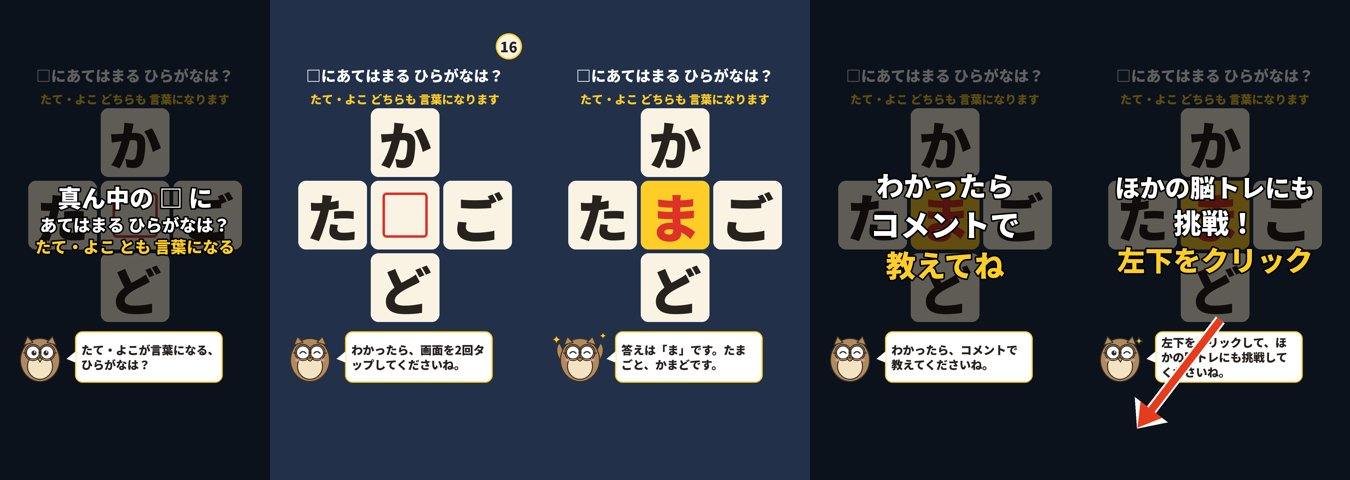
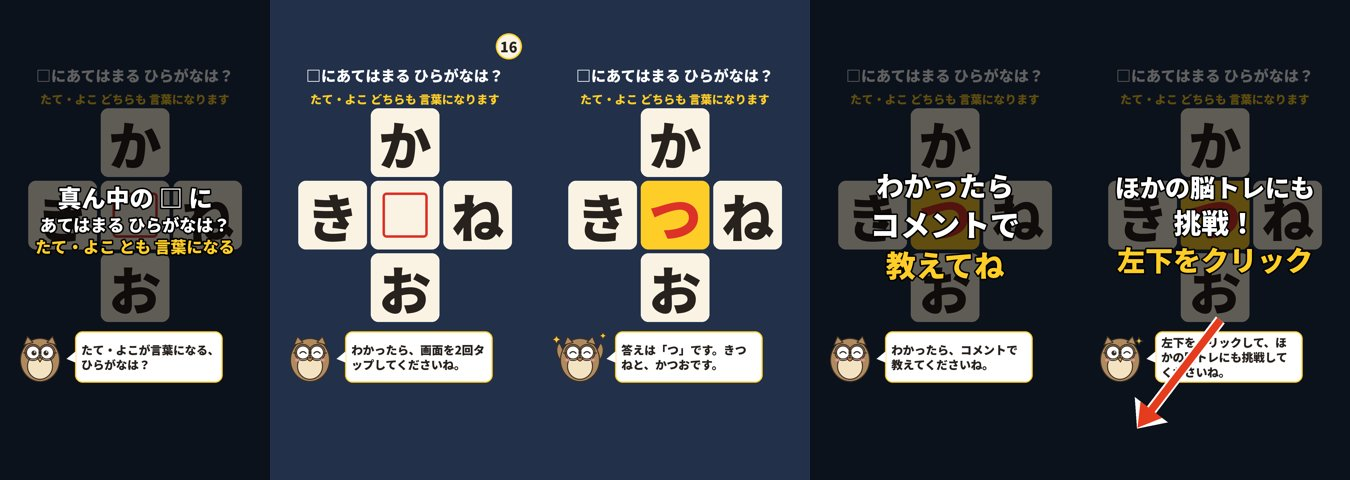
text_008 作り直し（再審査待ち）・作業途中
Claude-Session: https://claude.ai/code/session_01RF3BnfrPSRk1U21VXW6Yry

diff --git a/scripts/chigau_shorts.py b/scripts/chigau_shorts.py
@@ -180,14 +180,15 @@ _ODD = []
 def _is_red(a):
     """手袋の赤（影・光の部分も含む）。灰色・桃色・白は赤でない。"""
     r, g, b = a[..., 0].astype(int), a[..., 1].astype(int), a[..., 2].astype(int)
-    return (r > 150) & (r - g > 90) & (r - b > 90)
+    return (r > 185) & (g < 72) & (b < 68) & (r - g > 120)   # 手袋の赤は約 (230, 59, 53)。ほんの少し明るいにじみも「赤でない」にする
 
 
 @functools.lru_cache(maxsize=None)
 def mitten_pics():
     """冬の絵：赤い毛糸の手袋（画像API 1枚）。違う1つは、雪の結晶の模様を消したもの（プログラム）。"""
     import numpy as np
-    from scipy.ndimage import binary_dilation, distance_transform_edt
+    import numpy as np
+    from scipy.ndimage import binary_dilation, gaussian_filter
     src = WORK / "mitten_src.png"
     if not src.exists():
         import gemini_image as G
@@ -198,9 +199,13 @@ def mitten_pics():
     x0, y0, x1, y1 = SNOW_BOX
     sub = o[y0:y1, x0:x1]
     off = ~_is_red(sub)                                    # 赤から外れる画素（白・灰色・桃色の線・ふちのにじみ）すべて
-    off = binary_dilation(off, iterations=3)               # 3px広げて、にじみの残りも含める
-    idx = distance_transform_edt(off, return_distances=False, return_indices=True)   # いちばん近い赤で塗る
-    sub[:] = sub[idx[0], idx[1]]
+    off = binary_dilation(off, iterations=4)               # 4px広げて、にじみの残りも含める
+    ok = (~off).astype(float)                              # 周りの赤をなめらかに平均して塗る（いちばん近い色だと、まだらの跡が残る）
+    for _ in range(2):
+        num = np.stack([gaussian_filter(sub[..., c] * ok, 25) for c in range(3)], axis=-1)
+        den = gaussian_filter(ok, 25)[..., None] + 1e-6
+        sub[off] = (num / den)[off].astype(np.uint8)
+        ok = np.ones_like(ok)
     bb = Image.fromarray(255 - a.min(axis=2)).point(lambda v: 255 if v > 40 else 0).getbbox()
     _ODD.append(Image.fromarray(o))
     out = []

diff --git a/outputs/2026-11-23_text_008/answer_check.md b/outputs/2026-11-23_text_008/answer_check.md
@@ -1,0 +1,25 @@
+# 008 答えの一意の確かめ（よこ「き□ね」・たて「か□お」→ つ）
+
+辞書ツールがないため、ひらがな全部（清音・濁音・半濁音・小さい字・「ん」）を真ん中に入れて、1字ずつ言葉になるかを目で確かめた（2026-11-23）。
+
+- よこ「き□ね」：言葉になるのは「きつね」だけ。
+  - あ行：きあね・きいね・きうね・きえね・きおね　×
+  - か行：きかね・ききね・きくね・きけね・きこね　×（濁音 きがね・きぎね・きぐね・きげね・きごね も×）
+  - さ行：きさね・きしね・きすね・きせね・きそね　×（きざね等×）
+  - た行：きたね・きちね・きつね・きてね・きとね　→ 「きつね」のみ○（きたね＝単独の言葉ではない。きだね等×）
+  - な行：きなね・きにね・きぬね・きねね・きのね　×
+  - は行：きはね・きひね・きふね・きへね・きほね　×（きばね・きぱね等×）
+  - ま行：きまね・きみね・きむね・きめね・きもね　×
+  - や・ゆ・よ、ら行、わ・を、ん：きやね・きゆね・きよね・きらね・きりね・きるね・きれね・きろね・きわね・きをね・きんね　×
+  - 小さい字：きゃね・きゅね・きょね・きっね・きぁね ほか　×
+- たて「か□お」：言葉になるのは「かつお」だけ。
+  - あ行：かあお・かいお・かうお・かえお・かおお　×
+  - か行：かかお・かきお・かくお・かけお・かこお　×（濁音も×）
+  - さ行：かさお・かしお・かすお・かせお・かそお　×
+  - た行：かたお・かちお・かつお・かてお・かとお　→ 「かつお」のみ○（かたお・かとお等は人名のみで言葉でない）
+  - な行：かなお・かにお・かぬお・かねお・かのお　×
+  - は行：かはお・かひお・かふお・かへお・かほお　×
+  - ま行：かまお・かみお・かむお・かめお・かもお　×
+  - や・ゆ・よ、ら行、わ・を、ん：かやお・かゆお・かよお・からお・かりお・かるお・かれお・かろお・かわお・かをお・かんお　×
+  - 小さい字：×
+- 両方が言葉になる文字：「つ」だけ（きつね・かつお）。「ん」は きんね・かんお とも言葉にならない。

diff --git a/outputs/2026-11-23_text_014/transcript_check.md b/outputs/2026-11-23_text_014/transcript_check.md
@@ -6,9 +6,9 @@
 
 | 声のファイル | 声に渡した文 | 聞こえた文（文字起こし） | 判定 |
 |---|---|---|---|
-| mitten_intro | ちがうてぶくろが、ひとつだけあります。どれでしょう？ | ちがうてぶくろが、ひとつだけあります。どれでしょう | OK |
+| mitten_intro | ちがうてぶくろが、ひとつだけあります。どれでしょう？ | ちがうてぶくろが、ひとつだけあります。どれでしょう。 | OK |
 | mitten_tap | わかったら、がめんを、にかいタップしてくださいね。 | わかったら、がめんをにかいたっぷしてくださいね。 | OK |
-| mitten_ans0 | こたえです。 | こたえです。 | OK |
-| mitten_ans1 | ゆきの、けっしょうの、もようが、ないてぶくろでした。 | ゆきの、けっしょうのもようがないてぶくろでした。 | OK |
+| mitten_ans0 | こたえです。 | こたえです | OK |
+| mitten_ans1 | もようのない、てぶくろでした。 | もようのない、てぶくろでした。 | OK |
 | mitten_comment | わかったら、コメントで、おしえてくださいね。 | わかったら、こめんとでおしえてくださいね | OK |
-| mitten_cta | ひだりしたをクリックして、ほかののうトレにも、ちょうせんしてくださいね。 | ひだりしたをクリックして、ほかののうとれにもちょうせんしてくださいね。 | OK |
+| mitten_cta | ひだりしたをクリックして、ほかののうトレにも、ちょうせんしてくださいね。 | ひだりしたをくりっくして、ほかののーとれにもちょうせんしてくださいね。 | OK |

diff --git a/outputs/2026-11-23_text_008/transcript_check.md b/outputs/2026-11-23_text_008/transcript_check.md
@@ -7,8 +7,8 @@
 | 声のファイル | 声に渡した文 | 聞こえた文（文字起こし） | 判定 |
 |---|---|---|---|
 | cross_ans0 | こたえです。 | こたえです | OK |
-| cross_ans1 | こたえは、まです。たまごと、かまどです。 | こたえは、まです。たまごと、かまどです。 | OK |
-| cross_comment | わかったら、コメントで、おしえてくださいね。 | わかったら、こめんとでおしえてくださいね | OK |
+| cross_ans1 | こたえは、つです。きつねと、かつおです。 | こたえは、つです、きつねと、かつおです。 | OK |
+| cross_comment | わかったら、コメントで、おしえてくださいね。 | わかったら、こめんとでおしえてくださいね。 | OK |
 | cross_cta | ひだりしたをクリックして、ほかののうトレにも、ちょうせんしてくださいね。 | ひだりしたをくりっくして、ほかののーとれにもちょうせんしてくださいね。 | OK |
 | cross_intro | たてとよこが、ことばになる、ひらがなは？ | たてとよこが、ことばになる、ひらがなは | OK |
-| cross_tap | わかったら、がめんを、にかいタップしてくださいね。 | わかったら、がめんをにかいたっぷしてくださいね | OK |
+| cross_tap | わかったら、がめんを、にかいタップしてくださいね。 | わかったら、がめんを、にかいたっぷしてくださいね。 | OK |

diff --git a/outputs/2026-11-23_text_014/readings_check.md b/outputs/2026-11-23_text_014/readings_check.md
@@ -8,6 +8,6 @@
 | intro（0.3秒） | 違う手袋が、1つだけあります。どれでしょう？ | ちがうてぶくろが、ひとつだけあります。どれでしょう？ | OK |
 | tap（5.1秒） | わかったら、画面を2回タップしてくださいね。 | わかったら、がめんを、にかいタップしてくださいね。 | OK |
 | ans0（20.1秒） | 答えです。 | こたえです。 | OK |
-| ans1（21.6秒） | 雪の結晶の模様が、ない手袋でした。 | ゆきの、けっしょうの、もようが、ないてぶくろでした。 | OK |
-| comment（26.7秒） | わかったら、コメントで教えてくださいね。 | わかったら、コメントで、おしえてくださいね。 | OK |
-| cta（29.9秒） | 左下をクリックして、ほかの脳トレにも挑戦してくださいね。 | ひだりしたをクリックして、ほかののうトレにも、ちょうせんしてくださいね。 | OK |
+| ans1（21.6秒） | 模様のない、手袋でした。 | もようのない、てぶくろでした。 | OK |
+| comment（25.5秒） | わかったら、コメントで教えてくださいね。 | わかったら、コメントで、おしえてくださいね。 | OK |
+| cta（28.7秒） | 左下をクリックして、ほかの脳トレにも挑戦してくださいね。 | ひだりしたをクリックして、ほかののうトレにも、ちょうせんしてくださいね。 | OK |

diff --git a/outputs/2026-11-23_text_008/readings_check.md b/outputs/2026-11-23_text_008/readings_check.md
@@ -8,6 +8,6 @@
 | intro（0.3秒） | たて・よこが言葉になる、ひらがなは？ | たてとよこが、ことばになる、ひらがなは？ | OK |
 | tap（4.4秒） | わかったら、画面を2回タップしてくださいね。 | わかったら、がめんを、にかいタップしてくださいね。 | OK |
 | ans0（21.4秒） | 答えです。 | こたえです。 | OK |
-| ans1（22.9秒） | 答えは「ま」です。たまごと、かまどです。 | こたえは、まです。たまごと、かまどです。 | OK |
-| comment（28.4秒） | わかったら、コメントで教えてくださいね。 | わかったら、コメントで、おしえてくださいね。 | OK |
+| ans1（22.9秒） | 答えは「つ」です。きつねと、かつおです。 | こたえは、つです。きつねと、かつおです。 | OK |
+| comment（28.3秒） | わかったら、コメントで教えてくださいね。 | わかったら、コメントで、おしえてくださいね。 | OK |
 | cta（31.9秒） | 左下をクリックして、ほかの脳トレにも挑戦してくださいね。 | ひだりしたをクリックして、ほかののうトレにも、ちょうせんしてくださいね。 | OK |

diff --git a/outputs/2026-11-23_text_014/description.md b/outputs/2026-11-23_text_014/description.md
@@ -1,6 +1,6 @@
 # 文字の脳トレ ショート text_014（投稿用）
 
-- 元：outputs/prototypes/chigau_002/ のmitten.mp4（ちがうのどーれだ？）。追加の1本（試作とは別の問題）。難しさ：ふつう。
+- 元：このフォルダの video.mp4（scripts/chigau_shorts.py の mitten で作成。追加の1本なので試作フォルダには置いていない）。試作とは別の問題。
 - タイトル 21文字。説明欄とタグに「レクリエーション」「デイサービス」。カテゴリは教育。再生リストは「文字の脳トレ｜毎日1分」。
 - 左下のリンク（関連動画）は、最新の間違い探しの長尺をStudioで指定する（APIでは設定できない。knowledge/shorts.md）。
 

diff --git a/outputs/2026-11-23_text_013/description.md b/outputs/2026-11-23_text_013/description.md
@@ -1,6 +1,6 @@
 # 文字の脳トレ ショート text_013（投稿用）
 
-- 元：outputs/prototypes/chigau_002/ のfutsu.mp4（ちがうのどーれだ？）。追加の1本（試作とは別の問題）。難しさ：ふつう。
+- 元：このフォルダの video.mp4（scripts/chigau_shorts.py の futsu で作成。追加の1本なので試作フォルダには置いていない）。試作とは別の問題。
 - タイトル 21文字。説明欄とタグに「レクリエーション」「デイサービス」。カテゴリは教育。再生リストは「文字の脳トレ｜毎日1分」。
 - 左下のリンク（関連動画）は、最新の間違い探しの長尺をStudioで指定する（APIでは設定できない。knowledge/shorts.md）。
 
